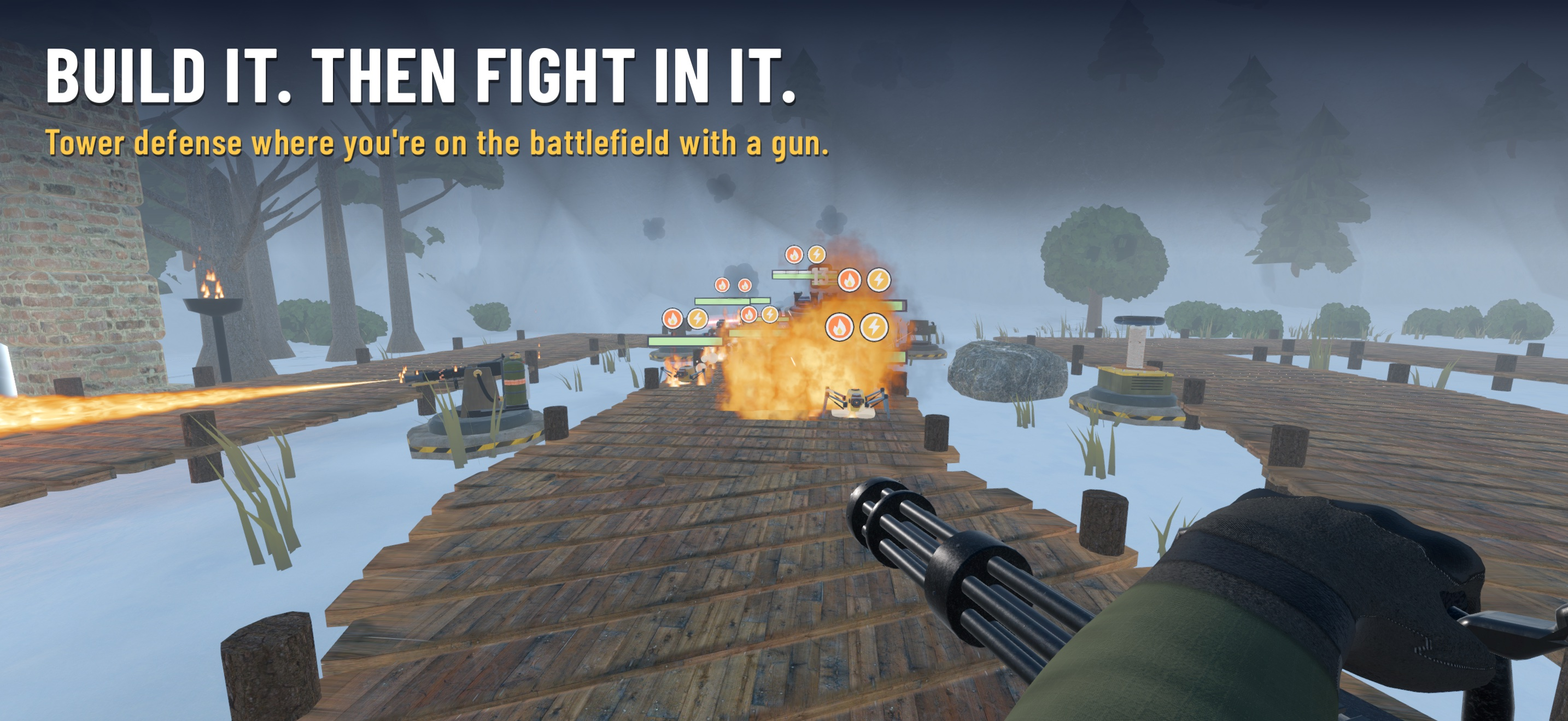
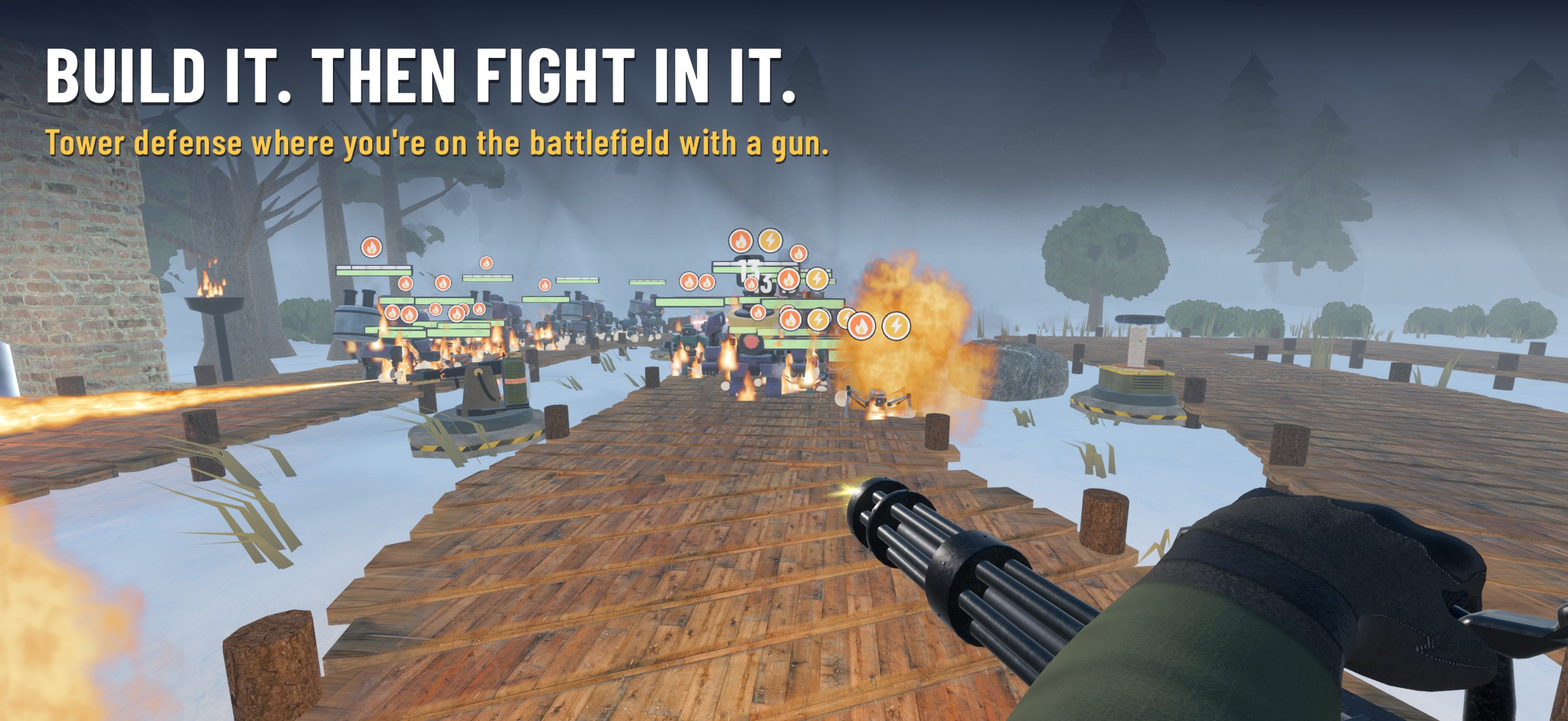
Press kit: screenshots re-shot in story order (hero, build, fight, traps, boss, air, reaper, boarders, storm, commander) with the new build shot and busier crowds

diff --git a/press/index.html b/press/index.html
@@ -76,13 +76,13 @@ video, .shots img { width: 100%; height: auto; display: block; border-radius: 10
 <h3>iPhone <span class="note">2868×1320</span></h3>
 <div class="shots">
 <a href="iphone_01_hero.jpg"><img src="iphone_01_hero.jpg" alt="Build it. Then fight in it." loading="lazy"></a>
-<a href="iphone_02_fight.jpg"><img src="iphone_02_fight.jpg" alt="You're in the fight: the game with its HUD and controls" loading="lazy"></a>
-<a href="iphone_03_boss.jpg"><img src="iphone_03_boss.jpg" alt="Take down the bosses" loading="lazy"></a>
-<a href="iphone_04_boarders.jpg"><img src="iphone_04_boarders.jpg" alt="They storm your keep" loading="lazy"></a>
-<a href="iphone_05_chute.jpg"><img src="iphone_05_chute.jpg" alt="Jump into the fight" loading="lazy"></a>
+<a href="iphone_02_build.jpg"><img src="iphone_02_build.jpg" alt="Build your defense: the wave's roads drawn, turrets going up" loading="lazy"></a>
+<a href="iphone_03_fight.jpg"><img src="iphone_03_fight.jpg" alt="You're in the fight: the game with its HUD and controls" loading="lazy"></a>
+<a href="iphone_04_traps.jpg"><img src="iphone_04_traps.jpg" alt="12 traps for the road" loading="lazy"></a>
+<a href="iphone_05_boss.jpg"><img src="iphone_05_boss.jpg" alt="Take down the bosses" loading="lazy"></a>
 <a href="iphone_06_air.jpg"><img src="iphone_06_air.jpg" alt="Shoot down air raids" loading="lazy"></a>
-<a href="iphone_07_traps.jpg"><img src="iphone_07_traps.jpg" alt="12 traps for the road" loading="lazy"></a>
-<a href="iphone_08_reaper.jpg"><img src="iphone_08_reaper.jpg" alt="More firepower from the keep" loading="lazy"></a>
+<a href="iphone_07_reaper.jpg"><img src="iphone_07_reaper.jpg" alt="More firepower from the keep" loading="lazy"></a>
+<a href="iphone_08_boarders.jpg"><img src="iphone_08_boarders.jpg" alt="They storm your keep" loading="lazy"></a>
 <a href="iphone_09_storm.jpg"><img src="iphone_09_storm.jpg" alt="Living battlefields" loading="lazy"></a>
 <a href="iphone_10_commander.jpg"><img src="iphone_10_commander.jpg" alt="Rank up your Commander" loading="lazy"></a>
 </div>
